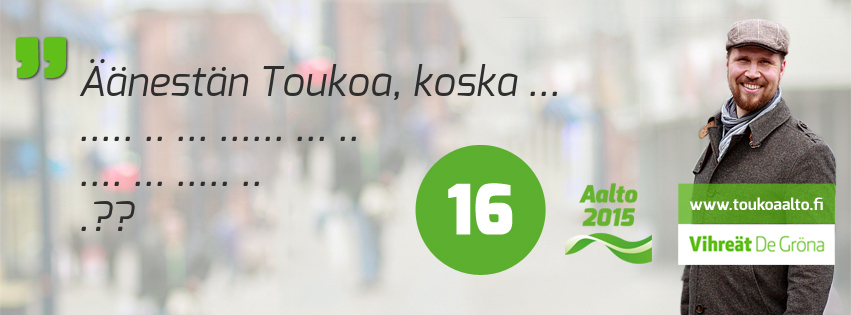
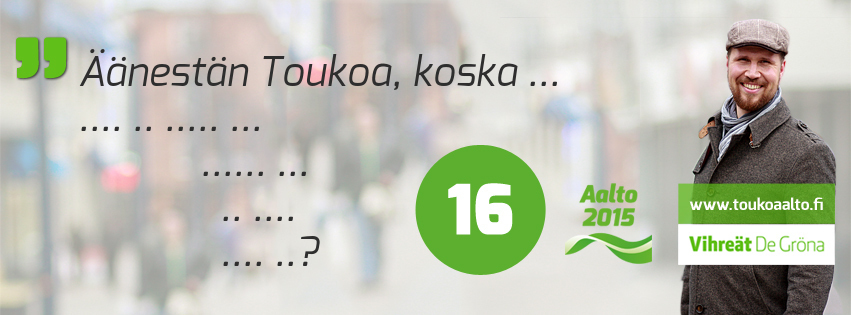
fix test positioning and add 5th row

diff --git a/app/models/photo.rb b/app/models/photo.rb
@@ -9,10 +9,11 @@ class Photo < ActiveRecord::Base
 
   # texts and positions
   STARTS = ['Äänestän Toukoa, koska ','Tuen Toukoa, koska ', 'Kannatan Toukoa, koska ']
-  POSITION_1 = '+78+55'
-  POSITION_2 = '+78+100'
-  POSITION_3 = '+78+145'
-  POSITION_4 = '+78+190'
+  POSITION_1 = '+78+45'
+  POSITION_2 = '+78+90'
+  POSITION_3 = '+200+135'
+  POSITION_4 = '+220+180'
+  POSITION_5 = '+220+225'
 
   # mogrify options
   IMAGE_FILE = 'aalto15-fb-cover-no-text.jpg'
@@ -27,9 +28,11 @@ class Photo < ActiveRecord::Base
   ROW_2_START = 8
   ROW_2_END = 28
   ROW_3_START = 28
-  ROW_3_END = 40
-  ROW_4_START = 40
-  ROW_4_END = 52
+  ROW_3_END = 36
+  ROW_4_START = 36
+  ROW_4_END = 43
+  ROW_5_START = 43
+  ROW_5_END = 55 #a little more to fit in the last word
 
   # Master method to really create the image and control workflow
   def addtext(url)
@@ -39,6 +42,7 @@ class Photo < ActiveRecord::Base
     addrow(img, rows[1], POSITION_2)
     addrow(img, rows[2], POSITION_3)
     addrow(img, rows[3], POSITION_4)
+    addrow(img, rows[4], POSITION_5)
     save_to_file(img, url)
   end
 
@@ -50,6 +54,7 @@ class Photo < ActiveRecord::Base
     row2 = Array.new
     row3 = Array.new
     row4 = Array.new
+    row5 = Array.new
 
     # add the starting phrase to first row
     start.split(' ').each do |s|
@@ -57,7 +62,7 @@ class Photo < ActiveRecord::Base
     end
 
     words.each do |w|
-      counter = counter + w.to_s.length
+      counter = counter + w.to_s.length + 1
       if counter >= ROW_1_START and counter < ROW_1_END
         row1 << w.to_s
       elsif counter >= ROW_2_START and counter < ROW_2_END
@@ -66,13 +71,18 @@ class Photo < ActiveRecord::Base
         row3 << w.to_s
       elsif counter >= ROW_4_START and counter < ROW_4_END
         row4 << w.to_s
+      elsif counter >= ROW_5_START and counter < ROW_5_END
+        row5 << w.to_s
       end
+      puts 'word: ' + w.to_s
+      puts 'counter: ' + counter.to_s
     end
 
     rows << row1
     rows << row2
     rows << row3
     rows << row4
+    rows << row5
     return rows
   end
 

diff --git a/db/schema.rb b/db/schema.rb
@@ -13,19 +13,6 @@
 
 ActiveRecord::Schema.define(version: 20150111220303) do
 
-  create_table "friendly_id_slugs", force: :cascade do |t|
-    t.string   "slug",                      null: false
-    t.integer  "sluggable_id",              null: false
-    t.string   "sluggable_type", limit: 50
-    t.string   "scope"
-    t.datetime "created_at"
-  end
-
-  add_index "friendly_id_slugs", ["slug", "sluggable_type", "scope"], name: "index_friendly_id_slugs_on_slug_and_sluggable_type_and_scope", unique: true
-  add_index "friendly_id_slugs", ["slug", "sluggable_type"], name: "index_friendly_id_slugs_on_slug_and_sluggable_type"
-  add_index "friendly_id_slugs", ["sluggable_id"], name: "index_friendly_id_slugs_on_sluggable_id"
-  add_index "friendly_id_slugs", ["sluggable_type"], name: "index_friendly_id_slugs_on_sluggable_type"
-
   create_table "photos", force: :cascade do |t|
     t.string   "start"
     t.string   "text"
